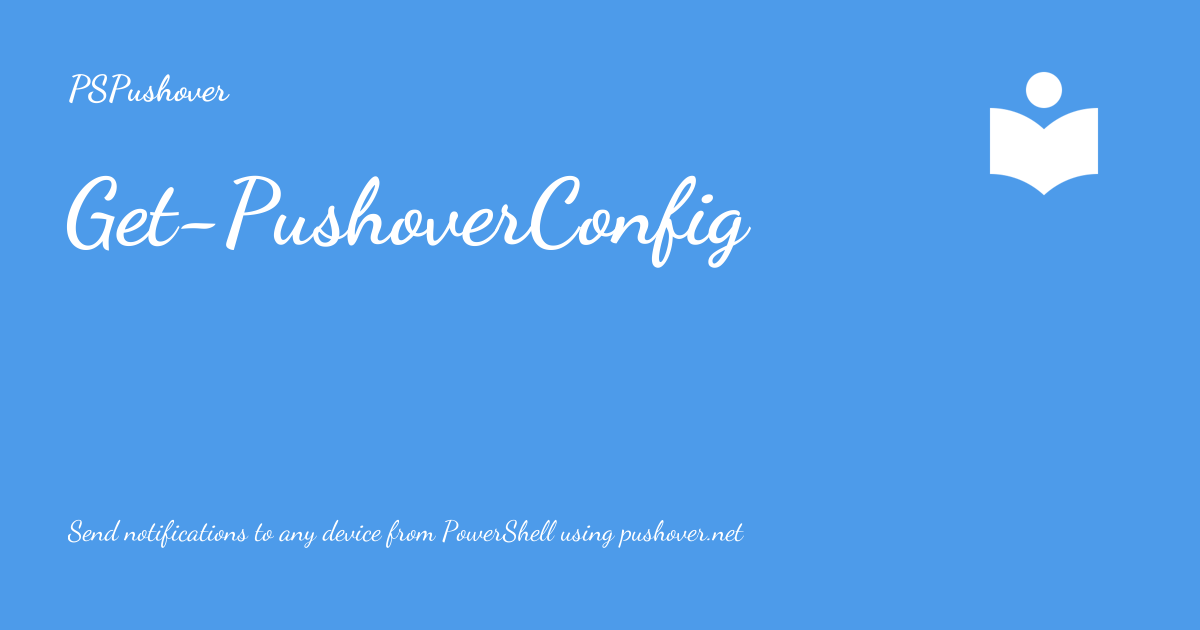
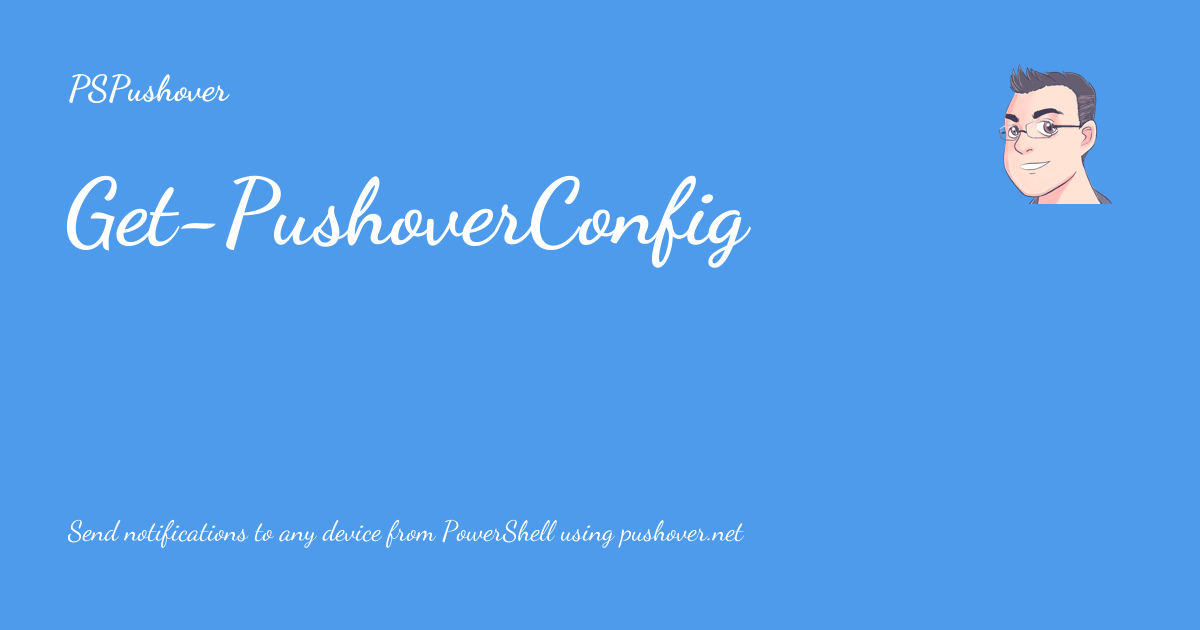
Deployed 38e592b with MkDocs version: 1.5.3

Changed region(s): [[0.8017, 0.0905, 0.925, 0.3317]]

diff --git a/index.html b/index.html
@@ -15,7 +15,7 @@
         <link rel="next" href="en-US/Get-PushoverConfig/">
       
       
-      <link rel="icon" href="assets/images/favicon.png">
+      <link rel="icon" href="assets/images/joshooaj.png">
       <meta name="generator" content="mkdocs-1.5.3, mkdocs-material-9.5.14">
     
     
@@ -116,8 +116,7 @@
   <nav class="md-header__inner md-grid" aria-label="Header">
     <a href="." title="PSPushover" class="md-header__button md-logo" aria-label="PSPushover" data-md-component="logo">
       
-  
-  <svg xmlns="http://www.w3.org/2000/svg" viewBox="0 0 24 24"><path d="M12 8a3 3 0 0 0 3-3 3 3 0 0 0-3-3 3 3 0 0 0-3 3 3 3 0 0 0 3 3m0 3.54C9.64 9.35 6.5 8 3 8v11c3.5 0 6.64 1.35 9 3.54 2.36-2.19 5.5-3.54 9-3.54V8c-3.5 0-6.64 1.35-9 3.54Z"/></svg>
+  <img src="assets/images/joshooaj.png" alt="logo">
 
     </a>
     <label class="md-header__button md-icon" for="__drawer">
@@ -249,8 +248,7 @@
   <label class="md-nav__title" for="__drawer">
     <a href="." title="PSPushover" class="md-nav__button md-logo" aria-label="PSPushover" data-md-component="logo">
       
-  
-  <svg xmlns="http://www.w3.org/2000/svg" viewBox="0 0 24 24"><path d="M12 8a3 3 0 0 0 3-3 3 3 0 0 0-3-3 3 3 0 0 0-3 3 3 3 0 0 0 3 3m0 3.54C9.64 9.35 6.5 8 3 8v11c3.5 0 6.64 1.35 9 3.54 2.36-2.19 5.5-3.54 9-3.54V8c-3.5 0-6.64 1.35-9 3.54Z"/></svg>
+  <img src="assets/images/joshooaj.png" alt="logo">
 
     </a>
     PSPushover
@@ -321,15 +319,6 @@
       Table of contents
     </label>
     <ul class="md-nav__list" data-md-component="toc" data-md-scrollfix>
-      
-        <li class="md-nav__item">
-  <a href="#overview" class="md-nav__link">
-    <span class="md-ellipsis">
-      Overview
-    </span>
-  </a>
-  
-</li>
       
         <li class="md-nav__item">
   <a href="#try-it-out" class="md-nav__link">
@@ -636,15 +625,6 @@
     <ul class="md-nav__list" data-md-component="toc" data-md-scrollfix>
       
         <li class="md-nav__item">
-  <a href="#overview" class="md-nav__link">
-    <span class="md-ellipsis">
-      Overview
-    </span>
-  </a>
-  
-</li>
-      
-        <li class="md-nav__item">
   <a href="#try-it-out" class="md-nav__link">
     <span class="md-ellipsis">
       Try it out
@@ -723,7 +703,6 @@
 
 
 <h1 id="pspushover">PSPushover</h1>
-<h2 id="overview">Overview</h2>
 <p>The PSPushover PowerShell module makes it a breeze to send push notifications to any device using the
 <a href="https://pushover.net">Pushover</a> service from PowerShell on Windows, Linux, and MacOS. You can send push notifications to Android, iOS, and
 desktop devices.</p>
@@ -734,14 +713,15 @@ to a group of users. Get notified...</p>
 <li>when cron jobs run</li>
 <li>when servers restart</li>
 <li>when your GitHub Actions / Azure DevOps / Jenkins / GitLab pipelines fail</li>
-<li>when your home automation detects a leak</li>
+<li><a href="https://github.com/joshooaj/PSPushover/blob/main/.github/workflows/NotifyOnStarred.yml">when someone star's your GitHub repo</a></li>
 <li><strong>whenever and for whatever you want!</strong></li>
 </ul>
-<h2 id="try-it-out">Try it out</h2>
+<h2 id="try-it-out"><span class="twemoji"><svg xmlns="http://www.w3.org/2000/svg" viewBox="0 0 24 24"><path d="m18.09 11.77 1.47 6.33L14 14.74 8.44 18.1l1.46-6.33L5 7.5l6.47-.54L14 1l2.53 5.96L23 7.5l-4.91 4.27M2 12.43c.19 0 .38-.06.55-.17l3.2-2.11-1.57-1.36-2.73 1.8c-.461.3-.589.91-.29 1.41.2.27.52.43.84.43m-.84 9.12c.2.29.52.45.84.45.19 0 .38-.05.55-.16l4.11-2.71.34-1.37.31-1.45-5.86 3.85c-.461.31-.589.93-.29 1.39m.29-6.17a1 1 0 0 0-.29 1.38c.2.3.52.45.84.45.19 0 .38-.05.55-.16l5.42-3.55.27-1.19-.92-.81-5.87 3.88Z"/></svg></span> Try it out</h2>
+<p><img alt="Screenshot of Pushover notification on iOS" src="assets/images/example-notification.jpg" /></p>
 <p>When this GitHub repository receives a new star, it triggers a GitHub Action <a href="https://github.com/joshooaj/PSPushover/blob/main/.github/workflows/NotifyOnStarred.yml">workflow</a> which uses PSPushover to send a notification to anyone who subscribes using the link below.</p>
 <p><a href="https://pushover.net/subscribe/PSPushover-2hw5raj6uqr5dsw">Subscribe to Star Notifications</a></p>
 <p>Pushover will generate a random user token for you and add it to a distribution group. You can unsubscribe from your Pushover dashboard at any time, and your real user token is never exposed. So go ahead and try it out! If you already had the repo starred before subscribing, you can unstar and star it again as many times as you like.</p>
-<h2 id="getting-started">Getting started</h2>
+<h2 id="getting-started"><span class="twemoji"><svg xmlns="http://www.w3.org/2000/svg" viewBox="0 0 640 512"><!--! Font Awesome Free 6.5.1 by @fontawesome - https://fontawesome.com License - https://fontawesome.com/license/free (Icons: CC BY 4.0, Fonts: SIL OFL 1.1, Code: MIT License) Copyright 2023 Fonticons, Inc.--><path d="M208 96a48 48 0 1 0 0-96 48 48 0 1 0 0 96zm-84.3 104.5c1-.4 1.9-.8 2.9-1.2l-16.9 63.5c-5.6 21.1-.1 43.6 14.7 59.7l70.7 77.1 22 88.1c4.3 17.1 21.7 27.6 38.8 23.3s27.6-21.7 23.3-38.8l-23-92.1c-1.9-7.8-5.8-14.9-11.2-20.8l-49.5-54 19.3-65.5 9.6 23c4.4 10.6 12.5 19.3 22.8 24.5l26.7 13.3c15.8 7.9 35 1.5 42.9-14.3s1.5-35-14.3-42.9L281 232.7l-15.3-36.8c-17.2-41.1-57.4-67.9-102-67.9-22.8 0-45.3 4.8-66.1 14l-8 3.5c-32.9 14.6-58.1 42.4-69.4 76.5l-2.6 7.8c-5.6 16.8 3.5 34.9 20.2 40.5s34.9-3.5 40.5-20.2l2.6-7.8c5.7-17.1 18.3-30.9 34.7-38.2l8-3.5zm-30 135.1-25 62.4-59.3 59.4c-12.5 12.5-12.5 32.8 0 45.3s32.8 12.5 45.3 0l61.6-61.7c4.6-4.6 8.2-10.1 10.6-16.1l14.5-36.2-40.7-44.4c-2.5-2.7-4.8-5.6-7-8.6zm456.9-182.2c-12.5-12.5-32.8-12.5-45.3 0s-12.5 32.8 0 45.3l25.4 25.3H384c-17.7 0-32 14.3-32 32s14.3 32 32 32h146.7l-25.4 25.4c-12.5 12.5-12.5 32.8 0 45.3s32.8 12.5 45.3 0l80-80c12.5-12.5 12.5-32.8 0-45.3l-80-80z"/></svg></span> Getting started</h2>
 <p>All Pushover notifications are sent from an <strong>application</strong> to a <strong>user</strong> or <strong>group</strong>. To send
 your first push notification, you need an <strong>application token</strong> and a <strong>user key</strong>. To receive
 notifications, you need the Pushover app installed on a mobile device, or at least have the website

diff --git a/en-US/Get-PushoverStatus/index.html b/en-US/Get-PushoverStatus/index.html
@@ -17,7 +17,7 @@
         <link rel="next" href="../Reset-PushoverConfig/">
       
       
-      <link rel="icon" href="../../assets/images/favicon.png">
+      <link rel="icon" href="../../assets/images/joshooaj.png">
       <meta name="generator" content="mkdocs-1.5.3, mkdocs-material-9.5.14">
     
     
@@ -118,8 +118,7 @@
   <nav class="md-header__inner md-grid" aria-label="Header">
     <a href="../.." title="PSPushover" class="md-header__button md-logo" aria-label="PSPushover" data-md-component="logo">
       
-  
-  <svg xmlns="http://www.w3.org/2000/svg" viewBox="0 0 24 24"><path d="M12 8a3 3 0 0 0 3-3 3 3 0 0 0-3-3 3 3 0 0 0-3 3 3 3 0 0 0 3 3m0 3.54C9.64 9.35 6.5 8 3 8v11c3.5 0 6.64 1.35 9 3.54 2.36-2.19 5.5-3.54 9-3.54V8c-3.5 0-6.64 1.35-9 3.54Z"/></svg>
+  <img src="../../assets/images/joshooaj.png" alt="logo">
 
     </a>
     <label class="md-header__button md-icon" for="__drawer">
@@ -251,8 +250,7 @@
   <label class="md-nav__title" for="__drawer">
     <a href="../.." title="PSPushover" class="md-nav__button md-logo" aria-label="PSPushover" data-md-component="logo">
       
-  
-  <svg xmlns="http://www.w3.org/2000/svg" viewBox="0 0 24 24"><path d="M12 8a3 3 0 0 0 3-3 3 3 0 0 0-3-3 3 3 0 0 0-3 3 3 3 0 0 0 3 3m0 3.54C9.64 9.35 6.5 8 3 8v11c3.5 0 6.64 1.35 9 3.54 2.36-2.19 5.5-3.54 9-3.54V8c-3.5 0-6.64 1.35-9 3.54Z"/></svg>
+  <img src="../../assets/images/joshooaj.png" alt="logo">
 
     </a>
     PSPushover

diff --git a/en-US/Get-PushoverSound/index.html b/en-US/Get-PushoverSound/index.html
@@ -17,7 +17,7 @@
         <link rel="next" href="../Get-PushoverStatus/">
       
       
-      <link rel="icon" href="../../assets/images/favicon.png">
+      <link rel="icon" href="../../assets/images/joshooaj.png">
       <meta name="generator" content="mkdocs-1.5.3, mkdocs-material-9.5.14">
     
     
@@ -118,8 +118,7 @@
   <nav class="md-header__inner md-grid" aria-label="Header">
     <a href="../.." title="PSPushover" class="md-header__button md-logo" aria-label="PSPushover" data-md-component="logo">
       
-  
-  <svg xmlns="http://www.w3.org/2000/svg" viewBox="0 0 24 24"><path d="M12 8a3 3 0 0 0 3-3 3 3 0 0 0-3-3 3 3 0 0 0-3 3 3 3 0 0 0 3 3m0 3.54C9.64 9.35 6.5 8 3 8v11c3.5 0 6.64 1.35 9 3.54 2.36-2.19 5.5-3.54 9-3.54V8c-3.5 0-6.64 1.35-9 3.54Z"/></svg>
+  <img src="../../assets/images/joshooaj.png" alt="logo">
 
     </a>
     <label class="md-header__button md-icon" for="__drawer">
@@ -251,8 +250,7 @@
   <label class="md-nav__title" for="__drawer">
     <a href="../.." title="PSPushover" class="md-nav__button md-logo" aria-label="PSPushover" data-md-component="logo">
       
-  
-  <svg xmlns="http://www.w3.org/2000/svg" viewBox="0 0 24 24"><path d="M12 8a3 3 0 0 0 3-3 3 3 0 0 0-3-3 3 3 0 0 0-3 3 3 3 0 0 0 3 3m0 3.54C9.64 9.35 6.5 8 3 8v11c3.5 0 6.64 1.35 9 3.54 2.36-2.19 5.5-3.54 9-3.54V8c-3.5 0-6.64 1.35-9 3.54Z"/></svg>
+  <img src="../../assets/images/joshooaj.png" alt="logo">
 
     </a>
     PSPushover

diff --git a/en-US/Send-Pushover/index.html b/en-US/Send-Pushover/index.html
@@ -17,7 +17,7 @@
         <link rel="next" href="../Set-PushoverConfig/">
       
       
-      <link rel="icon" href="../../assets/images/favicon.png">
+      <link rel="icon" href="../../assets/images/joshooaj.png">
       <meta name="generator" content="mkdocs-1.5.3, mkdocs-material-9.5.14">
     
     
@@ -118,8 +118,7 @@
   <nav class="md-header__inner md-grid" aria-label="Header">
     <a href="../.." title="PSPushover" class="md-header__button md-logo" aria-label="PSPushover" data-md-component="logo">
       
-  
-  <svg xmlns="http://www.w3.org/2000/svg" viewBox="0 0 24 24"><path d="M12 8a3 3 0 0 0 3-3 3 3 0 0 0-3-3 3 3 0 0 0-3 3 3 3 0 0 0 3 3m0 3.54C9.64 9.35 6.5 8 3 8v11c3.5 0 6.64 1.35 9 3.54 2.36-2.19 5.5-3.54 9-3.54V8c-3.5 0-6.64 1.35-9 3.54Z"/></svg>
+  <img src="../../assets/images/joshooaj.png" alt="logo">
 
     </a>
     <label class="md-header__button md-icon" for="__drawer">
@@ -251,8 +250,7 @@
   <label class="md-nav__title" for="__drawer">
     <a href="../.." title="PSPushover" class="md-nav__button md-logo" aria-label="PSPushover" data-md-component="logo">
       
-  
-  <svg xmlns="http://www.w3.org/2000/svg" viewBox="0 0 24 24"><path d="M12 8a3 3 0 0 0 3-3 3 3 0 0 0-3-3 3 3 0 0 0-3 3 3 3 0 0 0 3 3m0 3.54C9.64 9.35 6.5 8 3 8v11c3.5 0 6.64 1.35 9 3.54 2.36-2.19 5.5-3.54 9-3.54V8c-3.5 0-6.64 1.35-9 3.54Z"/></svg>
+  <img src="../../assets/images/joshooaj.png" alt="logo">
 
     </a>
     PSPushover

diff --git a/en-US/Get-PushoverConfig/index.html b/en-US/Get-PushoverConfig/index.html
@@ -17,7 +17,7 @@
         <link rel="next" href="../Get-PushoverSound/">
       
       
-      <link rel="icon" href="../../assets/images/favicon.png">
+      <link rel="icon" href="../../assets/images/joshooaj.png">
       <meta name="generator" content="mkdocs-1.5.3, mkdocs-material-9.5.14">
     
     
@@ -118,8 +118,7 @@
   <nav class="md-header__inner md-grid" aria-label="Header">
     <a href="../.." title="PSPushover" class="md-header__button md-logo" aria-label="PSPushover" data-md-component="logo">
       
-  
-  <svg xmlns="http://www.w3.org/2000/svg" viewBox="0 0 24 24"><path d="M12 8a3 3 0 0 0 3-3 3 3 0 0 0-3-3 3 3 0 0 0-3 3 3 3 0 0 0 3 3m0 3.54C9.64 9.35 6.5 8 3 8v11c3.5 0 6.64 1.35 9 3.54 2.36-2.19 5.5-3.54 9-3.54V8c-3.5 0-6.64 1.35-9 3.54Z"/></svg>
+  <img src="../../assets/images/joshooaj.png" alt="logo">
 
     </a>
     <label class="md-header__button md-icon" for="__drawer">
@@ -251,8 +250,7 @@
   <label class="md-nav__title" for="__drawer">
     <a href="../.." title="PSPushover" class="md-nav__button md-logo" aria-label="PSPushover" data-md-component="logo">
       
-  
-  <svg xmlns="http://www.w3.org/2000/svg" viewBox="0 0 24 24"><path d="M12 8a3 3 0 0 0 3-3 3 3 0 0 0-3-3 3 3 0 0 0-3 3 3 3 0 0 0 3 3m0 3.54C9.64 9.35 6.5 8 3 8v11c3.5 0 6.64 1.35 9 3.54 2.36-2.19 5.5-3.54 9-3.54V8c-3.5 0-6.64 1.35-9 3.54Z"/></svg>
+  <img src="../../assets/images/joshooaj.png" alt="logo">
 
     </a>
     PSPushover

diff --git a/en-US/Set-PushoverConfig/index.html b/en-US/Set-PushoverConfig/index.html
@@ -17,7 +17,7 @@
         <link rel="next" href="../Test-PushoverUser/">
       
       
-      <link rel="icon" href="../../assets/images/favicon.png">
+      <link rel="icon" href="../../assets/images/joshooaj.png">
       <meta name="generator" content="mkdocs-1.5.3, mkdocs-material-9.5.14">
     
     
@@ -118,8 +118,7 @@
   <nav class="md-header__inner md-grid" aria-label="Header">
     <a href="../.." title="PSPushover" class="md-header__button md-logo" aria-label="PSPushover" data-md-component="logo">
       
-  
-  <svg xmlns="http://www.w3.org/2000/svg" viewBox="0 0 24 24"><path d="M12 8a3 3 0 0 0 3-3 3 3 0 0 0-3-3 3 3 0 0 0-3 3 3 3 0 0 0 3 3m0 3.54C9.64 9.35 6.5 8 3 8v11c3.5 0 6.64 1.35 9 3.54 2.36-2.19 5.5-3.54 9-3.54V8c-3.5 0-6.64 1.35-9 3.54Z"/></svg>
+  <img src="../../assets/images/joshooaj.png" alt="logo">
 
     </a>
     <label class="md-header__button md-icon" for="__drawer">
@@ -251,8 +250,7 @@
   <label class="md-nav__title" for="__drawer">
     <a href="../.." title="PSPushover" class="md-nav__button md-logo" aria-label="PSPushover" data-md-component="logo">
       
-  
-  <svg xmlns="http://www.w3.org/2000/svg" viewBox="0 0 24 24"><path d="M12 8a3 3 0 0 0 3-3 3 3 0 0 0-3-3 3 3 0 0 0-3 3 3 3 0 0 0 3 3m0 3.54C9.64 9.35 6.5 8 3 8v11c3.5 0 6.64 1.35 9 3.54 2.36-2.19 5.5-3.54 9-3.54V8c-3.5 0-6.64 1.35-9 3.54Z"/></svg>
+  <img src="../../assets/images/joshooaj.png" alt="logo">
 
     </a>
     PSPushover

diff --git a/en-US/Reset-PushoverConfig/index.html b/en-US/Reset-PushoverConfig/index.html
@@ -17,7 +17,7 @@
         <link rel="next" href="../Send-Pushover/">
       
       
-      <link rel="icon" href="../../assets/images/favicon.png">
+      <link rel="icon" href="../../assets/images/joshooaj.png">
       <meta name="generator" content="mkdocs-1.5.3, mkdocs-material-9.5.14">
     
     
@@ -118,8 +118,7 @@
   <nav class="md-header__inner md-grid" aria-label="Header">
     <a href="../.." title="PSPushover" class="md-header__button md-logo" aria-label="PSPushover" data-md-component="logo">
       
-  
-  <svg xmlns="http://www.w3.org/2000/svg" viewBox="0 0 24 24"><path d="M12 8a3 3 0 0 0 3-3 3 3 0 0 0-3-3 3 3 0 0 0-3 3 3 3 0 0 0 3 3m0 3.54C9.64 9.35 6.5 8 3 8v11c3.5 0 6.64 1.35 9 3.54 2.36-2.19 5.5-3.54 9-3.54V8c-3.5 0-6.64 1.35-9 3.54Z"/></svg>
+  <img src="../../assets/images/joshooaj.png" alt="logo">
 
     </a>
     <label class="md-header__button md-icon" for="__drawer">
@@ -251,8 +250,7 @@
   <label class="md-nav__title" for="__drawer">
     <a href="../.." title="PSPushover" class="md-nav__button md-logo" aria-label="PSPushover" data-md-component="logo">
       
-  
-  <svg xmlns="http://www.w3.org/2000/svg" viewBox="0 0 24 24"><path d="M12 8a3 3 0 0 0 3-3 3 3 0 0 0-3-3 3 3 0 0 0-3 3 3 3 0 0 0 3 3m0 3.54C9.64 9.35 6.5 8 3 8v11c3.5 0 6.64 1.35 9 3.54 2.36-2.19 5.5-3.54 9-3.54V8c-3.5 0-6.64 1.35-9 3.54Z"/></svg>
+  <img src="../../assets/images/joshooaj.png" alt="logo">
 
     </a>
     PSPushover

diff --git a/en-US/Test-PushoverUser/index.html b/en-US/Test-PushoverUser/index.html
@@ -17,7 +17,7 @@
         <link rel="next" href="../Wait-Pushover/">
       
       
-      <link rel="icon" href="../../assets/images/favicon.png">
+      <link rel="icon" href="../../assets/images/joshooaj.png">
       <meta name="generator" content="mkdocs-1.5.3, mkdocs-material-9.5.14">
     
     
@@ -118,8 +118,7 @@
   <nav class="md-header__inner md-grid" aria-label="Header">
     <a href="../.." title="PSPushover" class="md-header__button md-logo" aria-label="PSPushover" data-md-component="logo">
       
-  
-  <svg xmlns="http://www.w3.org/2000/svg" viewBox="0 0 24 24"><path d="M12 8a3 3 0 0 0 3-3 3 3 0 0 0-3-3 3 3 0 0 0-3 3 3 3 0 0 0 3 3m0 3.54C9.64 9.35 6.5 8 3 8v11c3.5 0 6.64 1.35 9 3.54 2.36-2.19 5.5-3.54 9-3.54V8c-3.5 0-6.64 1.35-9 3.54Z"/></svg>
+  <img src="../../assets/images/joshooaj.png" alt="logo">
 
     </a>
     <label class="md-header__button md-icon" for="__drawer">
@@ -251,8 +250,7 @@
   <label class="md-nav__title" for="__drawer">
     <a href="../.." title="PSPushover" class="md-nav__button md-logo" aria-label="PSPushover" data-md-component="logo">
       
-  
-  <svg xmlns="http://www.w3.org/2000/svg" viewBox="0 0 24 24"><path d="M12 8a3 3 0 0 0 3-3 3 3 0 0 0-3-3 3 3 0 0 0-3 3 3 3 0 0 0 3 3m0 3.54C9.64 9.35 6.5 8 3 8v11c3.5 0 6.64 1.35 9 3.54 2.36-2.19 5.5-3.54 9-3.54V8c-3.5 0-6.64 1.35-9 3.54Z"/></svg>
+  <img src="../../assets/images/joshooaj.png" alt="logo">
 
     </a>
     PSPushover

diff --git a/en-US/Wait-Pushover/index.html b/en-US/Wait-Pushover/index.html
@@ -15,7 +15,7 @@
       
       
       
-      <link rel="icon" href="../../assets/images/favicon.png">
+      <link rel="icon" href="../../assets/images/joshooaj.png">
       <meta name="generator" content="mkdocs-1.5.3, mkdocs-material-9.5.14">
     
     
@@ -116,8 +116,7 @@
   <nav class="md-header__inner md-grid" aria-label="Header">
     <a href="../.." title="PSPushover" class="md-header__button md-logo" aria-label="PSPushover" data-md-component="logo">
       
-  
-  <svg xmlns="http://www.w3.org/2000/svg" viewBox="0 0 24 24"><path d="M12 8a3 3 0 0 0 3-3 3 3 0 0 0-3-3 3 3 0 0 0-3 3 3 3 0 0 0 3 3m0 3.54C9.64 9.35 6.5 8 3 8v11c3.5 0 6.64 1.35 9 3.54 2.36-2.19 5.5-3.54 9-3.54V8c-3.5 0-6.64 1.35-9 3.54Z"/></svg>
+  <img src="../../assets/images/joshooaj.png" alt="logo">
 
     </a>
     <label class="md-header__button md-icon" for="__drawer">
@@ -249,8 +248,7 @@
   <label class="md-nav__title" for="__drawer">
     <a href="../.." title="PSPushover" class="md-nav__button md-logo" aria-label="PSPushover" data-md-component="logo">
       
-  
-  <svg xmlns="http://www.w3.org/2000/svg" viewBox="0 0 24 24"><path d="M12 8a3 3 0 0 0 3-3 3 3 0 0 0-3-3 3 3 0 0 0-3 3 3 3 0 0 0 3 3m0 3.54C9.64 9.35 6.5 8 3 8v11c3.5 0 6.64 1.35 9 3.54 2.36-2.19 5.5-3.54 9-3.54V8c-3.5 0-6.64 1.35-9 3.54Z"/></svg>
+  <img src="../../assets/images/joshooaj.png" alt="logo">
 
     </a>
     PSPushover

diff --git a/404.html b/404.html
@@ -13,7 +13,7 @@
       
       
       
-      <link rel="icon" href="/assets/images/favicon.png">
+      <link rel="icon" href="/assets/images/joshooaj.png">
       <meta name="generator" content="mkdocs-1.5.3, mkdocs-material-9.5.14">
     
     
@@ -83,8 +83,7 @@
   <nav class="md-header__inner md-grid" aria-label="Header">
     <a href="/." title="PSPushover" class="md-header__button md-logo" aria-label="PSPushover" data-md-component="logo">
       
-  
-  <svg xmlns="http://www.w3.org/2000/svg" viewBox="0 0 24 24"><path d="M12 8a3 3 0 0 0 3-3 3 3 0 0 0-3-3 3 3 0 0 0-3 3 3 3 0 0 0 3 3m0 3.54C9.64 9.35 6.5 8 3 8v11c3.5 0 6.64 1.35 9 3.54 2.36-2.19 5.5-3.54 9-3.54V8c-3.5 0-6.64 1.35-9 3.54Z"/></svg>
+  <img src="/assets/images/joshooaj.png" alt="logo">
 
     </a>
     <label class="md-header__button md-icon" for="__drawer">
@@ -216,8 +215,7 @@
   <label class="md-nav__title" for="__drawer">
     <a href="/." title="PSPushover" class="md-nav__button md-logo" aria-label="PSPushover" data-md-component="logo">
       
-  
-  <svg xmlns="http://www.w3.org/2000/svg" viewBox="0 0 24 24"><path d="M12 8a3 3 0 0 0 3-3 3 3 0 0 0-3-3 3 3 0 0 0-3 3 3 3 0 0 0 3 3m0 3.54C9.64 9.35 6.5 8 3 8v11c3.5 0 6.64 1.35 9 3.54 2.36-2.19 5.5-3.54 9-3.54V8c-3.5 0-6.64 1.35-9 3.54Z"/></svg>
+  <img src="/assets/images/joshooaj.png" alt="logo">
 
     </a>
     PSPushover
